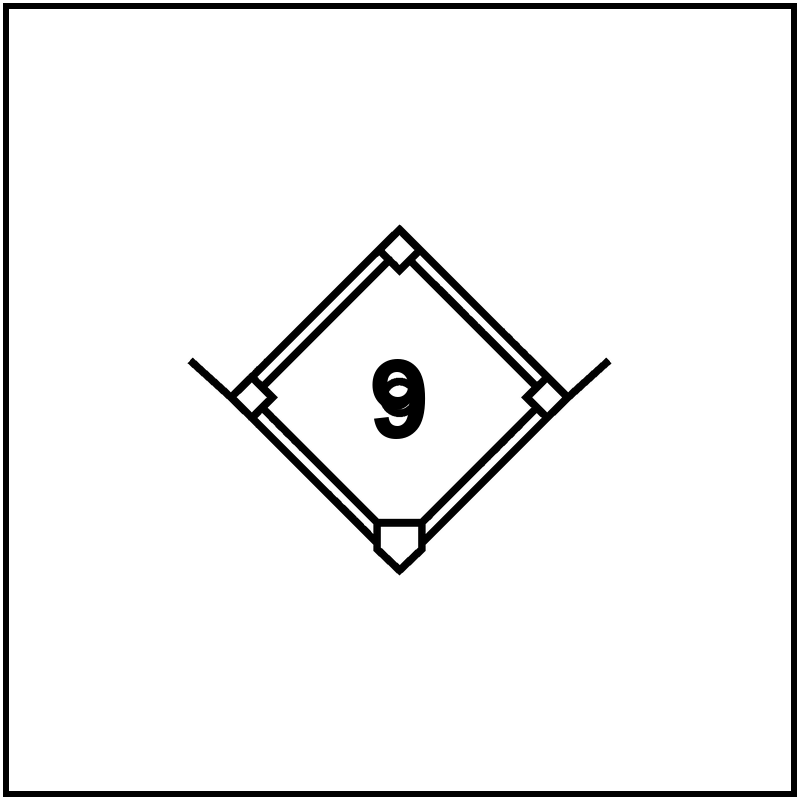
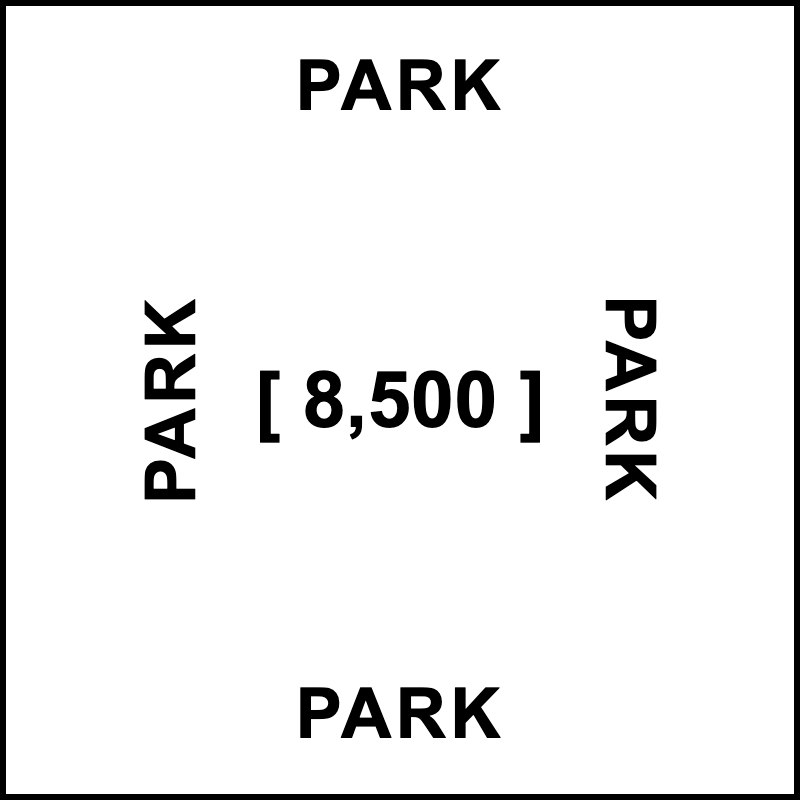
Redesign CUT PRICE -> PRICE CUT with scissors, redesign BALLPARK FIGURE
- cut-price -> price-cut (PRICE CUT): word "PRICE" split diagonally
  with a new scissors icon overlaid at the cut, replacing the old
  plain red strikethrough line
- BALLPARK FIGURE: "PARK" now frames all four edges of the card
  (horizontal top/bottom, vertical left/right) around a bracketed
  "[ 8,500 ]" in the center, replacing the baseball-diamond + "9"
  version. Removed the now-orphaned baseball-diamond.png icon.

Claude-Session: https://claude.ai/code/session_01QFAXVa8qbvmR8EUvRPsQ6z

diff --git a/js/puzzles.js b/js/puzzles.js
@@ -188,11 +188,11 @@ export const PUZZLES = [
     category: 'picture',
   },
   {
-    id: 'cut-price',
-    answer: 'CUT PRICE',
+    id: 'price-cut',
+    answer: 'PRICE CUT',
     image: 'images/cards/card-21.png',
-    description: 'html: The word "PRICE" large and centered, with a red horizontal line cutting through the middle of it at a slight angle, like a strikethrough.',
-    category: 'phrase',
+    description: 'ai-icon: images/icons/scissors.png (a simple flat pair of open scissors, no text) composited via html: the word "PRICE" split into two offset halves along a diagonal line, with the scissors overlaid right at the cut (scissors cutting "PRICE" = "PRICE CUT").',
+    category: 'picture',
   },
   {
     id: 'big-deal',
@@ -370,8 +370,8 @@ export const PUZZLES = [
     id: 'ballpark-figure',
     answer: 'BALLPARK FIGURE',
     image: 'images/cards/card-48.png',
-    description: 'ai-icon: images/icons/baseball-diamond.png (a top-down baseball diamond infield path) composited via html with a large number "9" centered inside it (baseball park = "ballpark", number 9 = "figure").',
-    category: 'picture',
+    description: 'html: The word "PARK" on all four sides of the card — horizontal along the top and bottom edges, rotated vertical along the left and right edges — forming a hollow square frame, with "[ 8,500 ]" centered inside it (a numeric FIGURE enclosed by a square of "PARK" = "BALLPARK FIGURE").',
+    category: 'phrase',
   },
   {
     id: 'a-penny-for-your-thoughts',